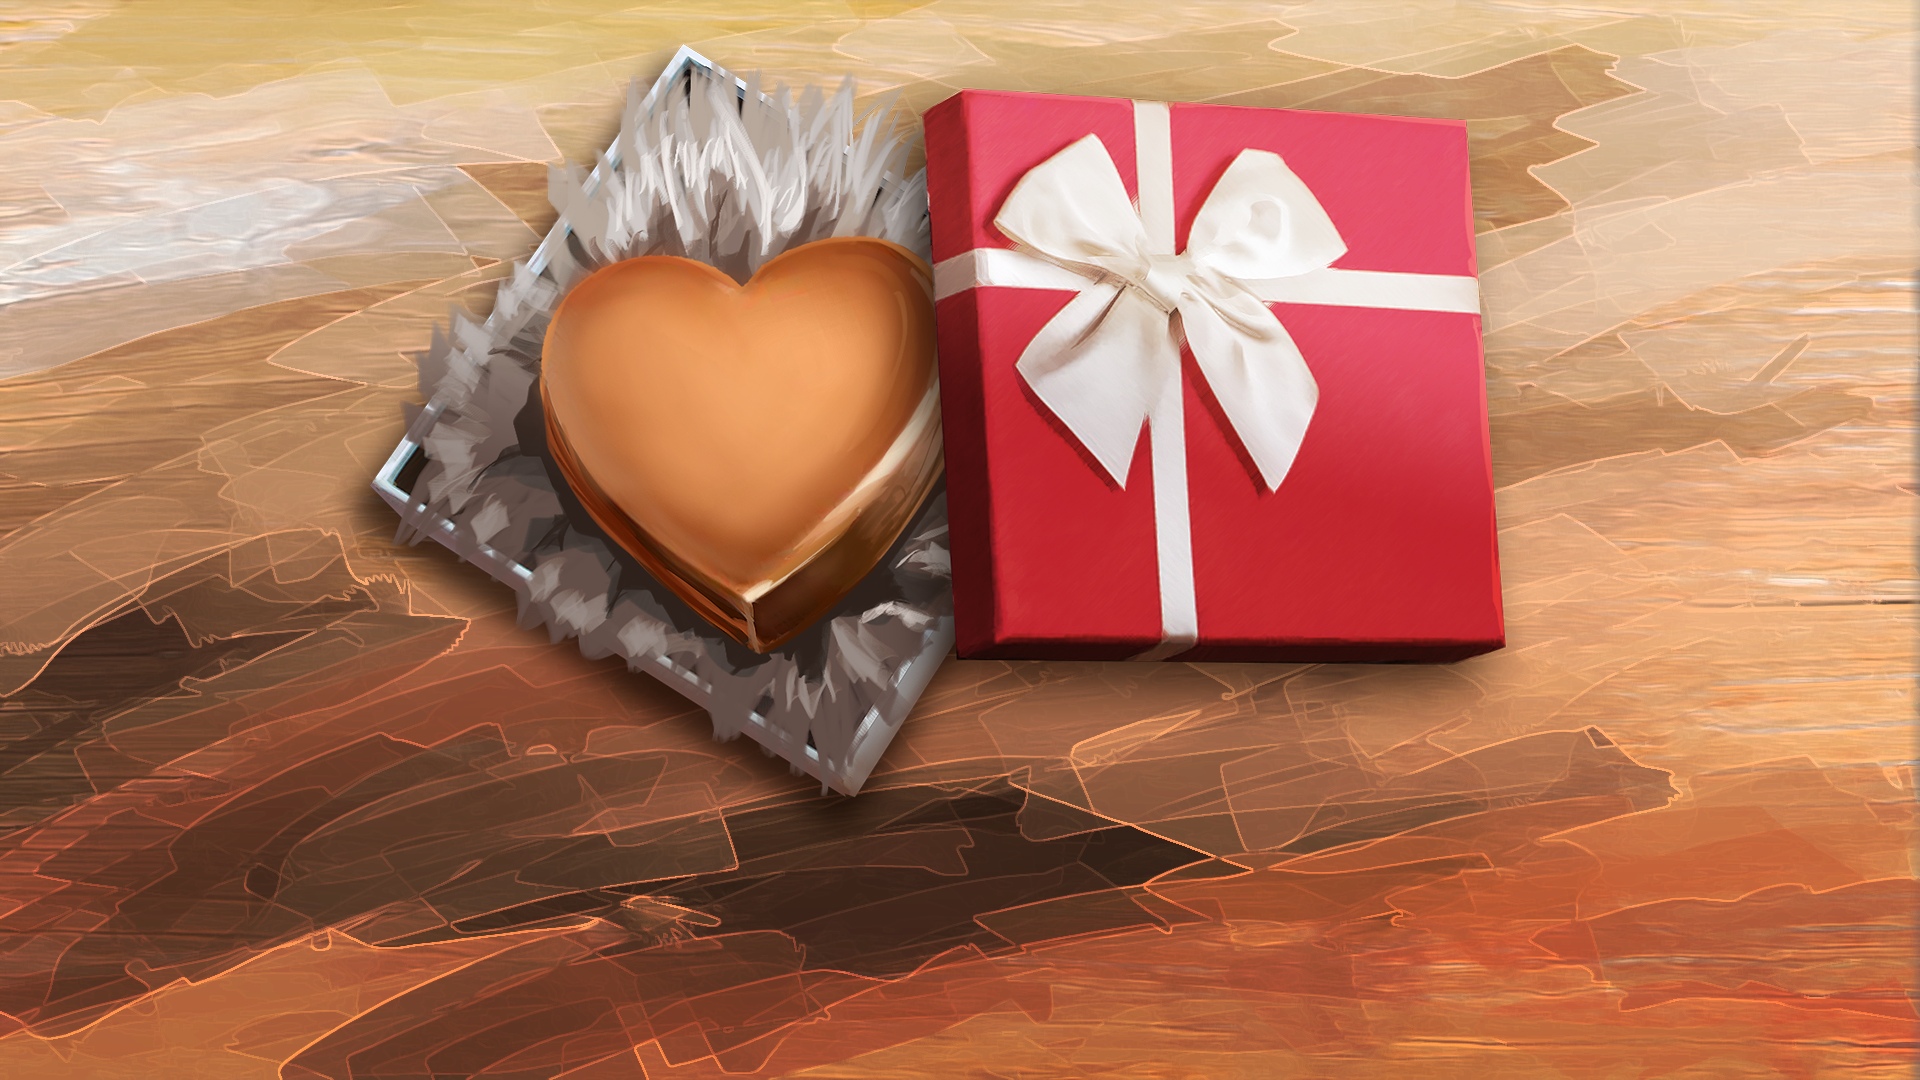
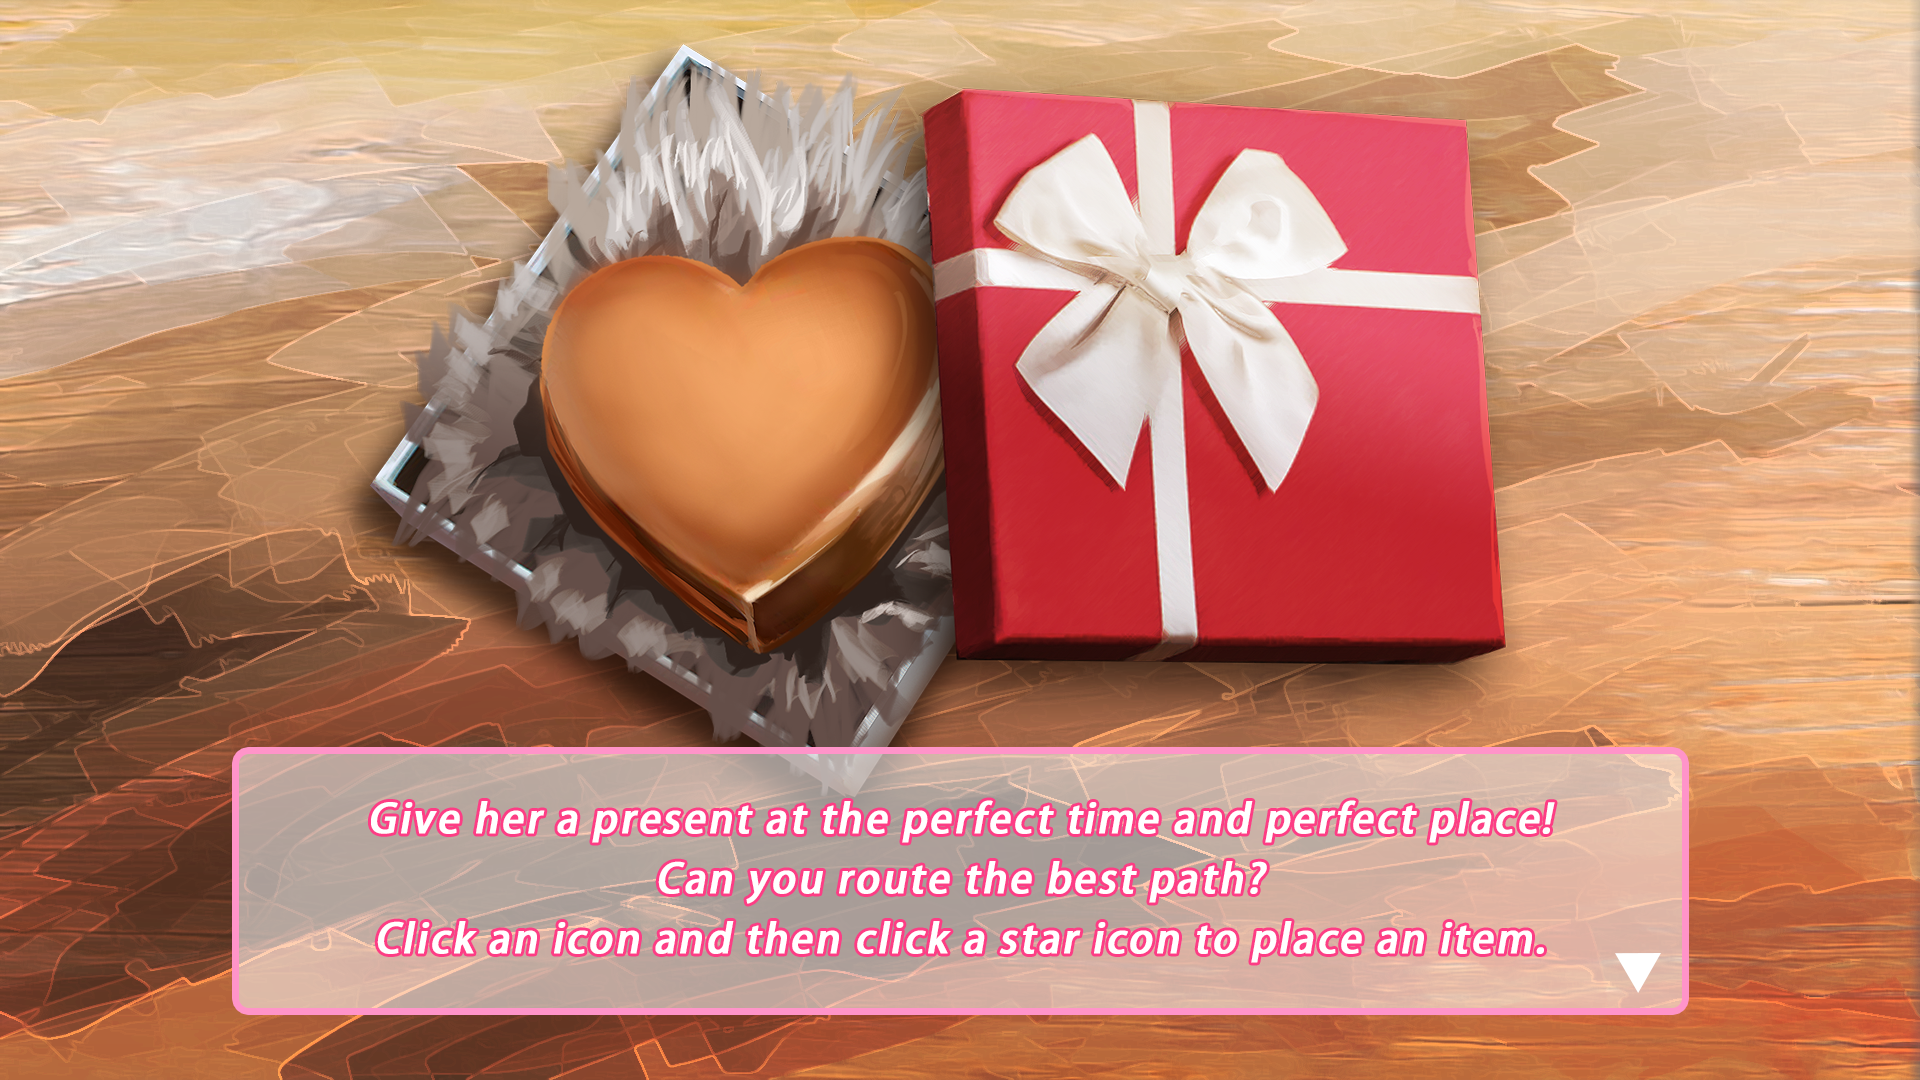
End Game and End Screen

Changed region(s): [[0.0938, 0.6722, 0.9062, 0.9472]]

diff --git a/src/scenes/mainScene.ts b/src/scenes/mainScene.ts
@@ -53,6 +53,8 @@ export class MainScene extends Phaser.Scene implements GM {
     public g_itemsPanel: ItemPanel;
     public g_notice: Phaser.GameObjects.Text;
     g_itemsGroup: Phaser.GameObjects.Container;
+    g_startBG: Phaser.GameObjects.Image;
+    g_endScreen: Phaser.GameObjects.Container;
 
     constructor() {
         super({
@@ -159,6 +161,16 @@ export class MainScene extends Phaser.Scene implements GM {
 
         this.registerMouse();
 
+        this.g_endScreen = this.add.container(0, 0);
+        this.g_startBG = this.add.image(0, 0, 'opening').setOrigin(0);
+        this.g_startBG.setInteractive().on('pointerup', () => {
+            this.g_startBG.destroy();
+            this.g_startBG = null;
+            this.startGame();
+        });
+    }
+
+    startGame() {
         this.boy.wander();
         this.girl.wander();
 
@@ -169,7 +181,7 @@ export class MainScene extends Phaser.Scene implements GM {
                     this.g_notice.setText('Click an icon at the top to choose an item');
                 }
             }
-        })
+        });
     }
 
     update(time: number, delta: number): void {
@@ -420,13 +432,48 @@ export class MainScene extends Phaser.Scene implements GM {
         }
     }
 
-    public gameOver() {
+    public endGame() {
+        log('endGame');
+
         this.boy.setWaypointAndMove(this.boy.wayPoints[0]);
+        this.boy.canMove = false;
         this.girl.setWaypointAndMove(this.girl.wayPoints[0]);
+        this.girl.canMove = false;
+
         const score = {
             'Place': this.getPlaceScore(this.boy.wayPoints[0], this.girl.wayPoints[0]) * 1,
             'Time': this.getTimeScore(0) * 1,
         };
+
+        const g_whiteBG = this.add.graphics({
+            x: 0,
+            y: 0,
+            fillStyle: { color: 0xFFFFFF, alpha: 1 },
+            lineStyle: { width: 10, color: 0xFFFFFF, alpha: 1 },
+        }).fillRect(0, 0, 1920, 1080);
+        this.g_endScreen.add(g_whiteBG);
+        g_whiteBG.setAlpha(0);
+        this.tweens.add({
+            targets: g_whiteBG,
+            alpha: 1,
+            duration: 1000
+        })
+
+        const titleStr = (score.Place ? 'You win!' : 'Game Over!');
+        const g_title = this.add.text(1920 / 2, 400, titleStr, {
+            ...defaultTextStyle,
+            fontSize: 72,
+        })
+        g_title.setOrigin(0.5, 1);
+        this.g_endScreen.add(g_title);
+        
+        const reasonStr = (score.Place ? 'The place is Perfect, You then live happily ever after.' : 'You should have met her at ___ !');
+        const g_reason = this.add.text(1920 / 2, 600, reasonStr, {
+            ...defaultTextStyle,
+            fontSize: 48,
+        })
+        g_reason.setOrigin(0.5, 1);
+        this.g_endScreen.add(g_reason);
     }
 
     public getPlaceScore(boyWaypointID: integer, girlWaypointID: integer): number {

diff --git a/src/Girl.ts b/src/Girl.ts
@@ -24,6 +24,7 @@ export class Girl extends Phaser.GameObjects.Container {
 
     public scene: MainScene;
     private movementTween: Phaser.Tweens.Timeline;
+    public canMove: boolean = true;
 
     constructor(scene: Phaser.Scene, cellX: number, cellY: number, g_predictGroup: Phaser.GameObjects.Container, children: GameObject[] = []) {
         super(scene, cellX, cellY);
@@ -143,9 +144,9 @@ export class Girl extends Phaser.GameObjects.Container {
         this.wayPoints.shift();
         log('onWaypointArrived G', this.wayPoints);
 
-        
+
         const waypoint = this.scene.g_waypointList[this.wayPoints[0]];
-        
+
         const nearCatPos = waypoint.connectsList.find(waypointID =>
             (this.scene.g_waypointList[waypointID].items.map(i => i.name).includes('event_cat'))
         );
@@ -185,6 +186,7 @@ export class Girl extends Phaser.GameObjects.Container {
     }
 
     wander() {
+        if (!this.canMove) return;
         const myWaypoint = this.scene.g_waypointList[this.wayPoints[0]];
         const choices = myWaypoint.connectsList;
         const waypoint: number = Phaser.Math.RND.pick(choices);

diff --git a/src/Boy.ts b/src/Boy.ts
@@ -20,6 +20,7 @@ export class Boy extends Phaser.GameObjects.Container {
     private g_debugText: Phaser.GameObjects.Text;
 
     public wayPoints: number[] = [];
+    public canMove: boolean = true;
     public isMoving: boolean;
     public predictColor = 0x69d7ff;
     public currentEdge = '';
@@ -216,7 +217,7 @@ export class Boy extends Phaser.GameObjects.Container {
         switch (this.mode) {
             case 'none':
                 if (this.scene.girl.isAtWaypoint(toWaypoint.id)) {
-                    this.scene.gameOver();
+                    this.scene.endGame();
                 }
                 if (toWaypoint.items.length > 0) {
                     toWaypoint.items.forEach((item) => {
@@ -313,6 +314,7 @@ export class Boy extends Phaser.GameObjects.Container {
 
     wander() {
         log('wander');
+        if (!this.canMove) return;
         let choices = (this.scene.g_namedWaypointList.slice()
             .filter(waypoint => waypoint.id !== this.wayPoints[0])
             .filter(waypoint =>

diff --git a/index.html b/index.html
@@ -37,7 +37,7 @@
       </div>
     </div>
   </div>
-  <script src="build/bundle.js?v=4"></script>
+  <script src="build/bundle.js?v=5"></script>
   <script>
     document.querySelector('.fullscreenButton').addEventListener('click', () => {
         const fullscreenName = scene.sys.game.device.fullscreen.request;
